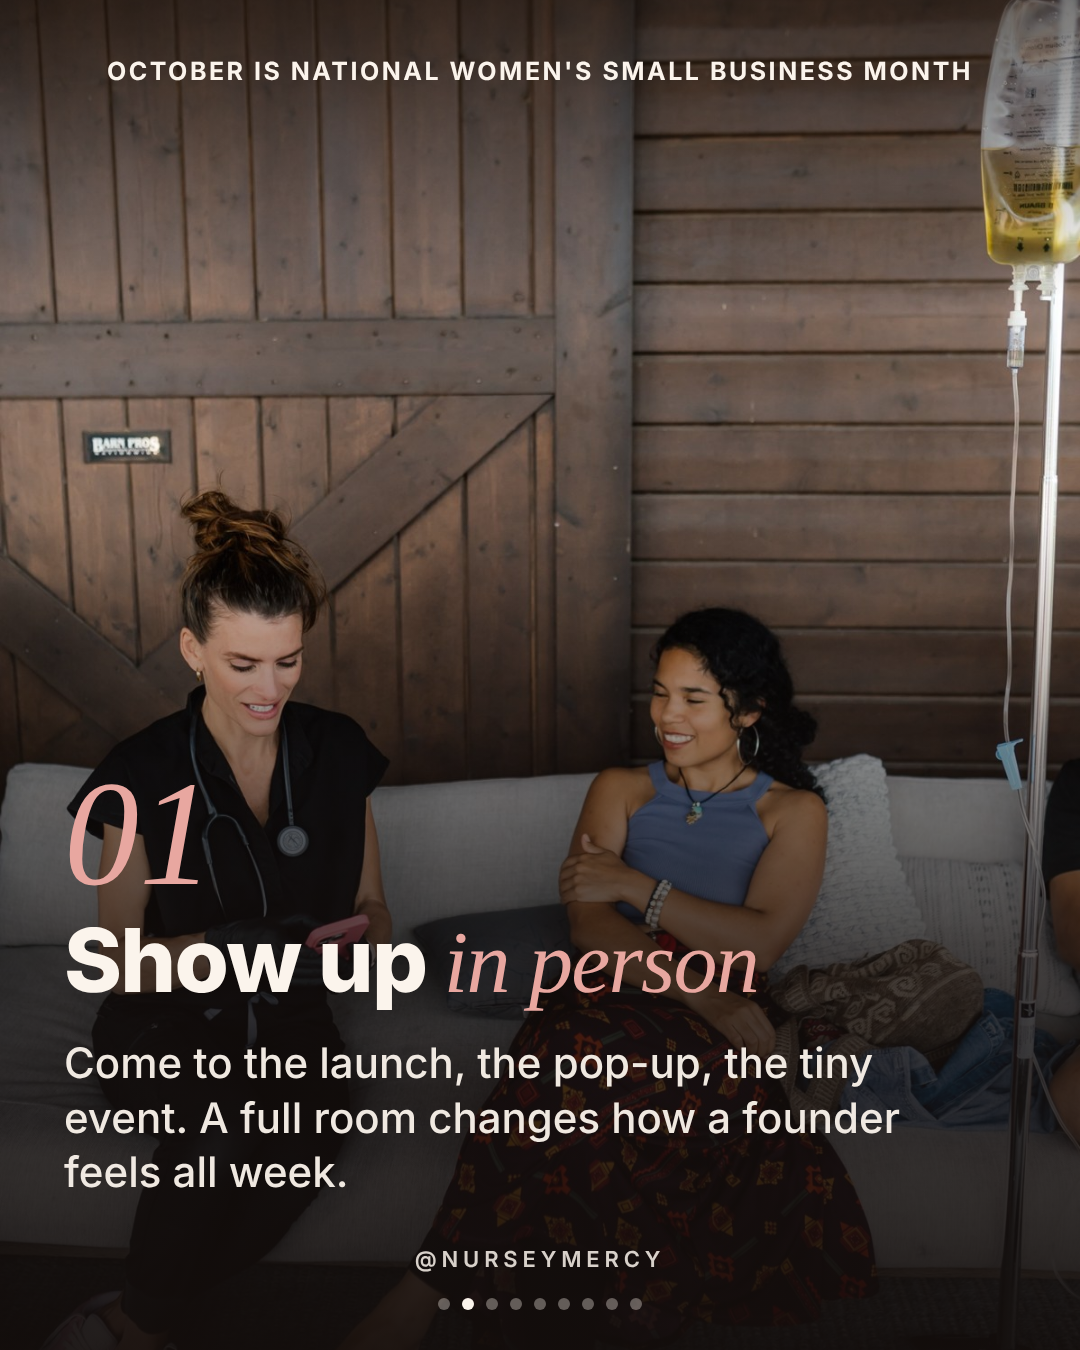
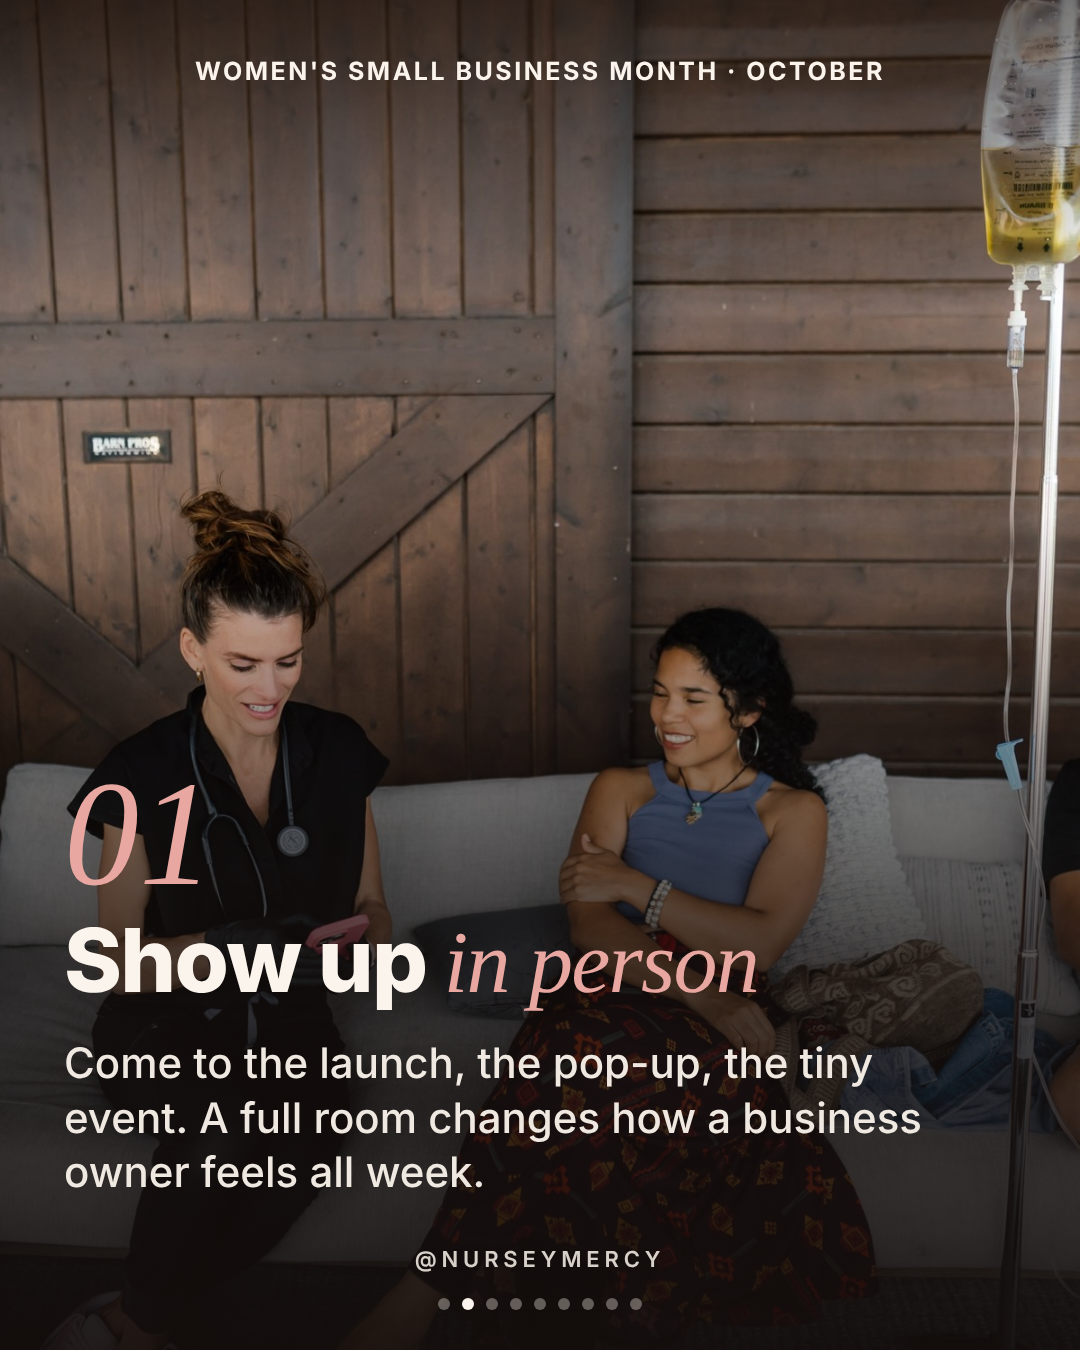
Reword carousel copy and caption to differ from the reference post
Claude-Session: https://claude.ai/code/session_01MKtqwUZJD2vDXX5GD9p1Yc

Changed region(s): [[0.0917, 0.0311, 0.8861, 0.0622], [0.0611, 0.84, 0.4278, 0.9022], [0.6722, 0.8089, 0.8556, 0.84]]

diff --git a/carousel.html b/carousel.html
@@ -56,7 +56,7 @@
   h2 em, h1 em { font-family: var(--serif); font-weight: 400; font-style: italic; color: var(--rose); }
   p { font-size: 42px; line-height: 1.3; font-weight: 500; max-width: 880px; opacity: .95; }
 
-  .cover h1 { font-size: 118px; line-height: .98; margin-bottom: 30px; }
+  .cover h1 { font-size: 100px; line-height: .98; margin-bottom: 30px; }
   .cover .kicker {
     display: inline-block; font-size: 26px; font-weight: 700; letter-spacing: .16em;
     text-transform: uppercase; background: var(--accent); color: var(--ink);
@@ -86,12 +86,12 @@
 <section class="slide cover">
   <div class="photo" style="background-image:url(assets/portrait-stethoscope.jpg); --pos:50% 20%"></div>
   <div class="shade"></div>
-  <div class="banner">October is National Women's Small Business Month</div>
+  <div class="banner">Women's Small Business Month · October</div>
 <div class="handle">@nurseymercy</div>
   <div class="copy">
     <span class="kicker">Swipe →</span>
-    <h1>Best ways to support your <em>founder</em> friends</h1>
-    <p>From a nurse who built her business one house call at a time.</p>
+    <h1>The best ways to back the <em>entrepreneurs</em> you love</h1>
+    <p>From a nurse who built her business one house call at a time. Here is what actually helped.</p>
   </div>
   <div class="dots"><i class="on"></i><i></i><i></i><i></i><i></i><i></i><i></i><i></i><i></i></div>
 </section>
@@ -100,12 +100,12 @@
 <section class="slide">
   <div class="photo" style="background-image:url(assets/couch-iv.jpg); --pos:50% 35%"></div>
   <div class="shade"></div>
-  <div class="banner">October is National Women's Small Business Month</div>
+  <div class="banner">Women's Small Business Month · October</div>
 <div class="handle">@nurseymercy</div>
   <div class="copy">
     <div class="num">01</div>
     <h2>Show up <em>in person</em></h2>
-    <p>Come to the launch, the pop-up, the tiny event. A full room changes how a founder feels all week.</p>
+    <p>Come to the launch, the pop-up, the tiny event. A full room changes how a business owner feels all week.</p>
   </div>
   <div class="dots"><i></i><i class="on"></i><i></i><i></i><i></i><i></i><i></i><i></i><i></i></div>
 </section>
@@ -114,7 +114,7 @@
 <section class="slide">
   <div class="photo" style="background-image:url(assets/elevator-grey.jpg); --pos:50% 30%"></div>
   <div class="shade"></div>
-  <div class="banner">October is National Women's Small Business Month</div>
+  <div class="banner">Women's Small Business Month · October</div>
 <div class="handle">@nurseymercy</div>
   <div class="copy">
     <div class="num">02</div>
@@ -128,7 +128,7 @@
 <section class="slide">
   <div class="photo" style="background-image:url(assets/syringe-red.jpg); --pos:50% 25%"></div>
   <div class="shade"></div>
-  <div class="banner">October is National Women's Small Business Month</div>
+  <div class="banner">Women's Small Business Month · October</div>
 <div class="handle">@nurseymercy</div>
   <div class="copy">
     <div class="num">03</div>
@@ -142,12 +142,12 @@
 <section class="slide">
   <div class="photo" style="background-image:url(assets/backstage.jpg); background-size:132% auto; background-repeat:no-repeat; --pos:30% 62%"></div>
   <div class="shade"></div>
-  <div class="banner">October is National Women's Small Business Month</div>
+  <div class="banner">Women's Small Business Month · October</div>
 <div class="handle">@nurseymercy</div>
   <div class="copy">
     <div class="num">04</div>
     <h2>Bring her to <em>your</em> party</h2>
-    <p>Birthday, bachelorette, team retreat, wrap party. Hire your founder friend for the room you're already hosting.</p>
+    <p>Birthday, bachelorette, team retreat, wrap party. Hire your entrepreneur friend for the room you're already hosting.</p>
   </div>
   <div class="dots"><i></i><i></i><i></i><i></i><i class="on"></i><i></i><i></i><i></i><i></i></div>
 </section>
@@ -156,12 +156,12 @@
 <section class="slide">
   <div class="photo" style="background-image:url(assets/kitchen-selfie.jpg); --pos:50% 30%"></div>
   <div class="shade"></div>
-  <div class="banner">October is National Women's Small Business Month</div>
+  <div class="banner">Women's Small Business Month · October</div>
 <div class="handle">@nurseymercy</div>
   <div class="copy">
     <div class="num">05</div>
     <h2>Give <em>honest</em> feedback</h2>
-    <p>Tell them what worked and what could be better. Kind, specific feedback is a gift most founders never get.</p>
+    <p>Tell them what worked and what could be better. Kind, specific feedback is a gift most business owners never get.</p>
   </div>
   <div class="dots"><i></i><i></i><i></i><i></i><i></i><i class="on"></i><i></i><i></i><i></i></div>
 </section>
@@ -170,12 +170,12 @@
 <section class="slide">
   <div class="photo" style="background-image:url(assets/heart-vial.jpg); --pos:50% 30%"></div>
   <div class="shade"></div>
-  <div class="banner">October is National Women's Small Business Month</div>
+  <div class="banner">Women's Small Business Month · October</div>
 <div class="handle">@nurseymercy</div>
   <div class="copy">
     <div class="num">06</div>
     <h2>Take one thing <em>off their plate</em></h2>
-    <p>Founders never clock out. Bring lunch, run the errand, or just say, "Go home. I've got this."</p>
+    <p>Business owners never clock out. Bring lunch, run the errand, or just say, "Go home. I've got this."</p>
   </div>
   <div class="dots"><i></i><i></i><i></i><i></i><i></i><i></i><i class="on"></i><i></i><i></i></div>
 </section>
@@ -184,7 +184,7 @@
 <section class="slide">
   <div class="photo" style="background-image:url(assets/elevator-blue.jpg); --pos:50% 25%"></div>
   <div class="shade"></div>
-  <div class="banner">October is National Women's Small Business Month</div>
+  <div class="banner">Women's Small Business Month · October</div>
 <div class="handle">@nurseymercy</div>
   <div class="copy">
     <div class="num">07</div>
@@ -198,12 +198,12 @@
 <section class="slide end">
   <div class="photo" style="background-image:url(assets/neon-portrait.jpg); --pos:50% 30%"></div>
   <div class="shade"></div>
-  <div class="banner">October is National Women's Small Business Month</div>
+  <div class="banner">Women's Small Business Month · October</div>
 <div class="handle">@nurseymercy</div>
   <div class="copy">
-    <h1>Tag the <em>founder</em> who deserves a cheer</h1>
-    <span class="tag">@ them below</span>
-    <p>Save this for later and send it to the person who needs to see it.</p>
+    <h1>Tag an <em>entrepreneur</em> you're rooting for</h1>
+    <span class="tag">@ them in the comments</span>
+    <p>Save this for later, or send it to someone who would love it.</p>
   </div>
   <div class="dots"><i></i><i></i><i></i><i></i><i></i><i></i><i></i><i></i><i class="on"></i></div>
 </section>

diff --git a/caption.md b/caption.md
@@ -1,7 +1,7 @@
-Your founder friend doesn't need another "so proud of you!!" text. There are so many other ways to show the love. 💖
+Texting "so proud of you" is sweet. Showing up in ways that move the needle is better. 💖
 
-It's National Women's Small Business Month. Swipe for 7 easy ways to support the founders in your life, then tag the one who deserves a cheer. 👇
+October is Women's Small Business Month, so here are 7 ways to back the entrepreneurs in your life. I'm a nurse who built a business house call by house call, and these are the things that actually helped me.
 
-Save this for later and send it to a friend who needs to see it.
+Swipe through, then tag someone you're rooting for. 👇
 
-#NationalWomensSmallBusinessMonth #SmallBusinessSupport #FounderLife #NurseEntrepreneur #MobileIV #NurseyMercy
+#WomensSmallBusinessMonth #SupportSmallBusiness #EntrepreneurLife #NurseEntrepreneur #MobileIV #NurseyMercy
